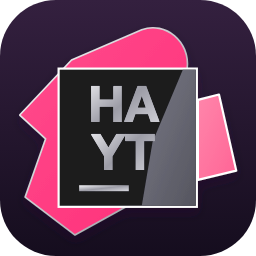
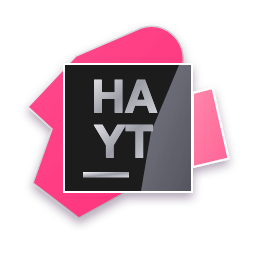
fix: restore the original badge design and keep the 1x export uncropped (HAY-48)
The root cause was the cropped 1x export, not the transparent canvas. Revert the full-bleed tile and keep the build-brand fix. Replace the edge-fill test with one that compares the visible area of the 1x and 2x files.

diff --git a/tests/test_brand.py b/tests/test_brand.py
@@ -39,17 +39,22 @@ def test_readme_header_uses_an_existing_brand_image() -> None:
 
 
 @pytest.mark.parametrize("prefix", ["", "dark_"])
-@pytest.mark.parametrize("scale", [1, 2])
-def test_icon_fills_the_square_edge_to_edge(prefix: str, scale: int) -> None:
-    """HACS crops the icon into a fixed frame, so the tile must touch all four edges."""
-    suffix = "@2x" if scale == 2 else ""
+@pytest.mark.parametrize("name", ["icon", "logo"])
+def test_one_x_image_shows_the_same_area_as_the_two_x_image(prefix: str, name: str) -> None:
+    """HACS uses the 1x files, so they must not be a cropped part of the ``@2x`` artwork."""
+    with (
+        Image.open(BRAND / f"{prefix}{name}.png").convert("RGBA") as one_x,
+        Image.open(BRAND / f"{prefix}{name}@2x.png").convert("RGBA") as two_x,
+    ):
+        one_x_box = one_x.getchannel("A").getbbox()
+        two_x_box = two_x.getchannel("A").getbbox()
 
-    with Image.open(BRAND / f"{prefix}icon{suffix}.png").convert("RGBA") as icon:
-        alpha = icon.getchannel("A")
-        middle = icon.width // 2
-        last = icon.width - 1
-        edge_midpoints = [(middle, 0), (middle, last), (0, middle), (last, middle)]
-        assert all(alpha.getpixel(point) == 255 for point in edge_midpoints)
+    assert one_x_box is not None
+    assert two_x_box is not None
+    assert all(
+        abs(one_x_edge * 2 - two_x_edge) <= 4
+        for one_x_edge, two_x_edge in zip(one_x_box, two_x_box, strict=True)
+    )
 
 
 @pytest.mark.parametrize("prefix", ["", "dark_"])
